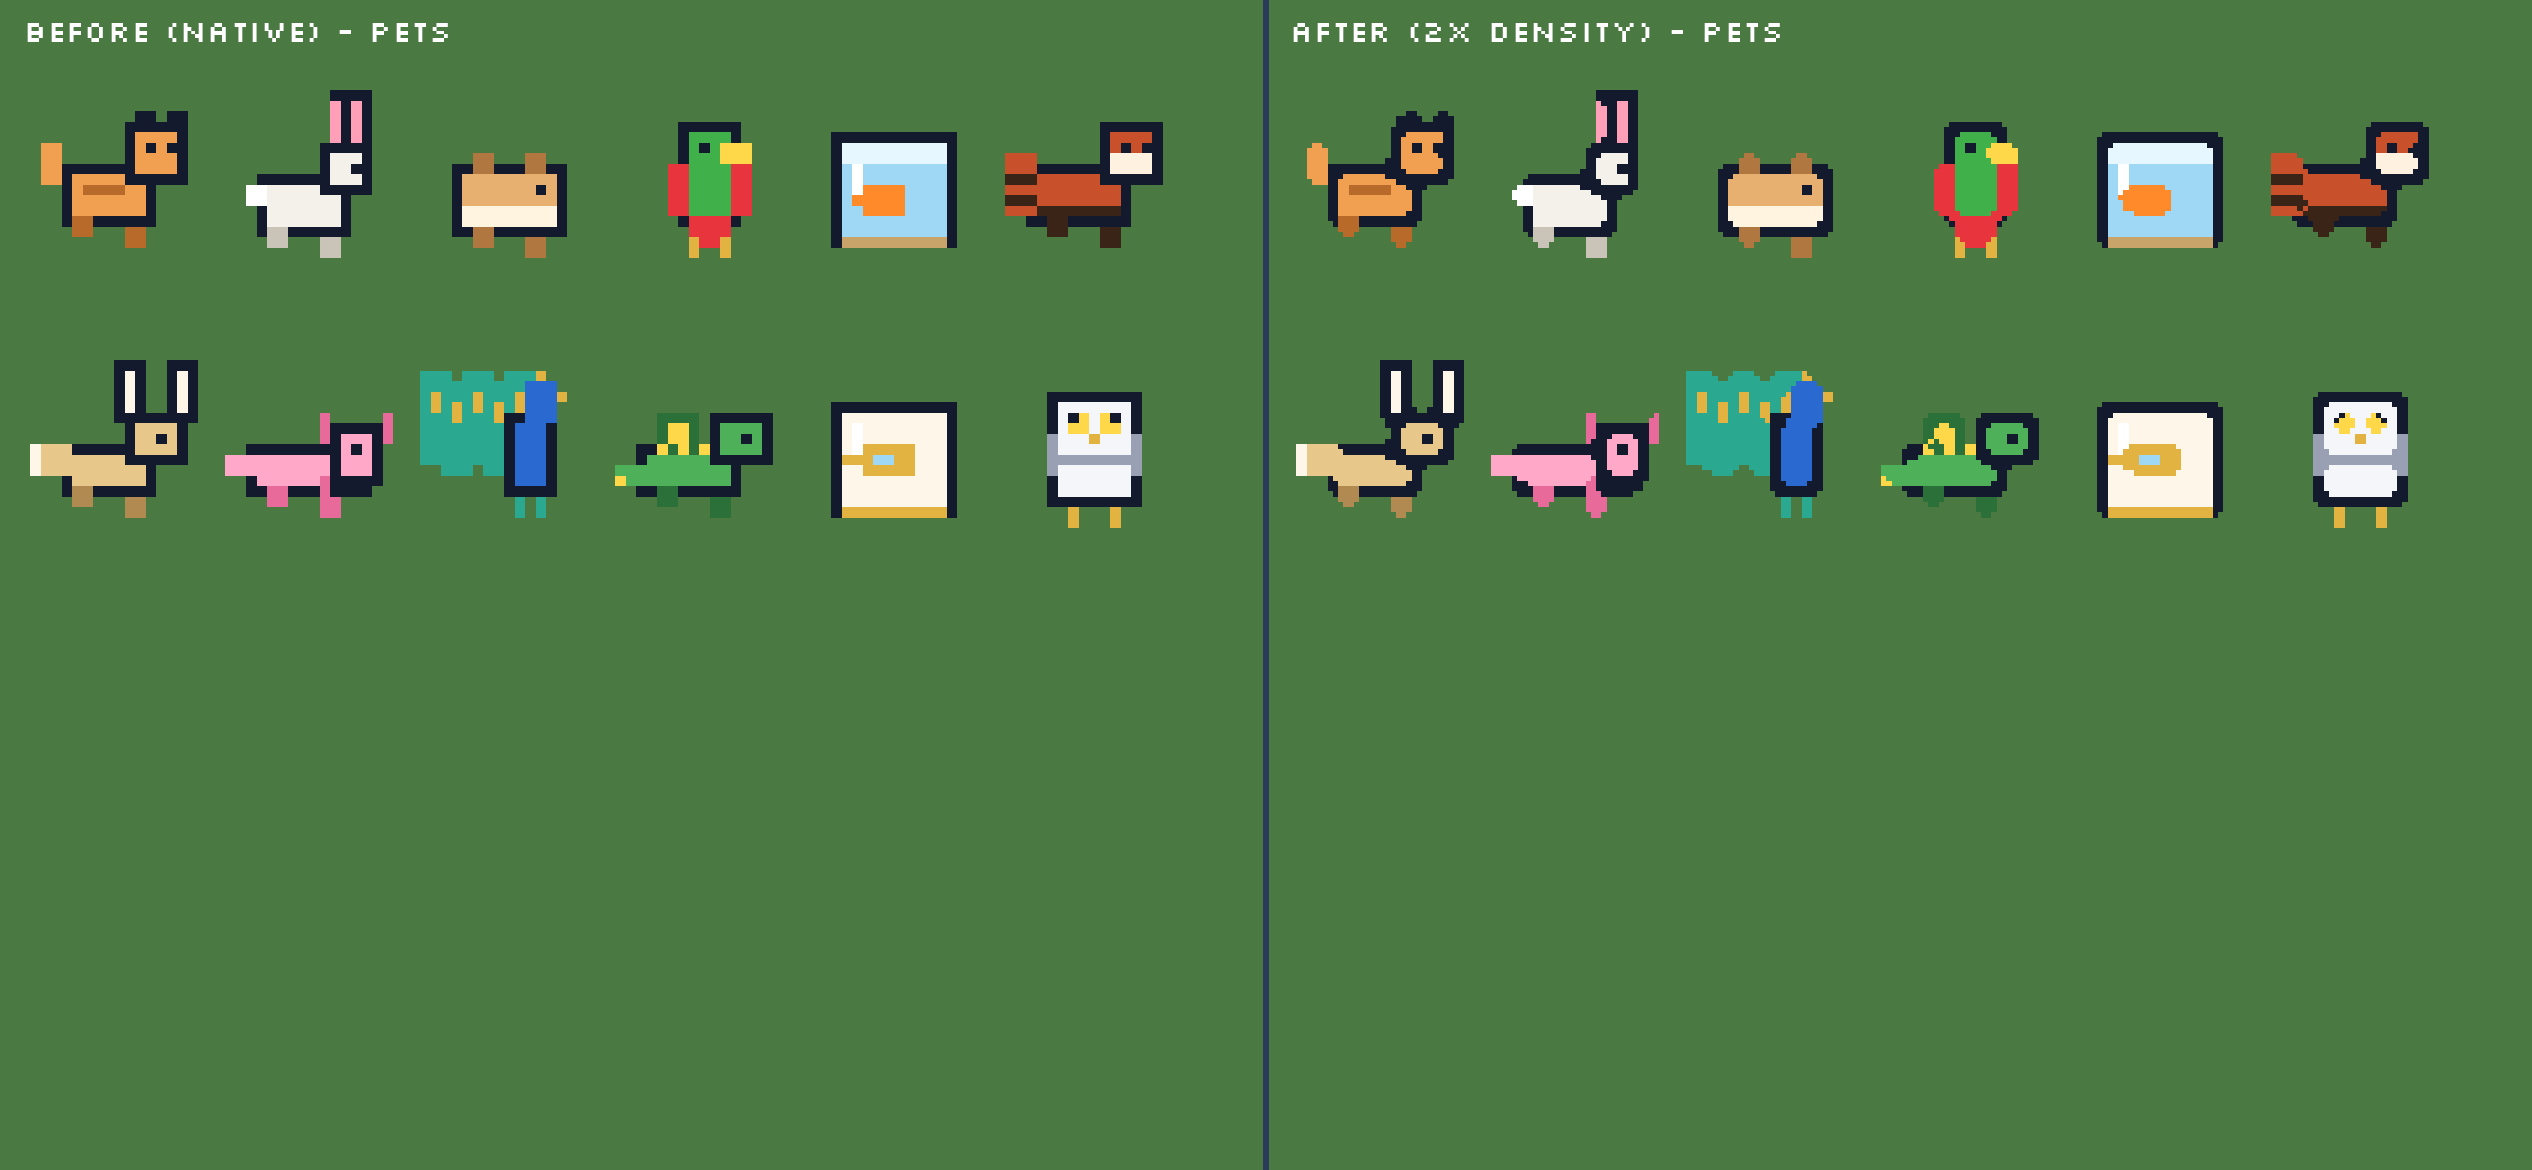
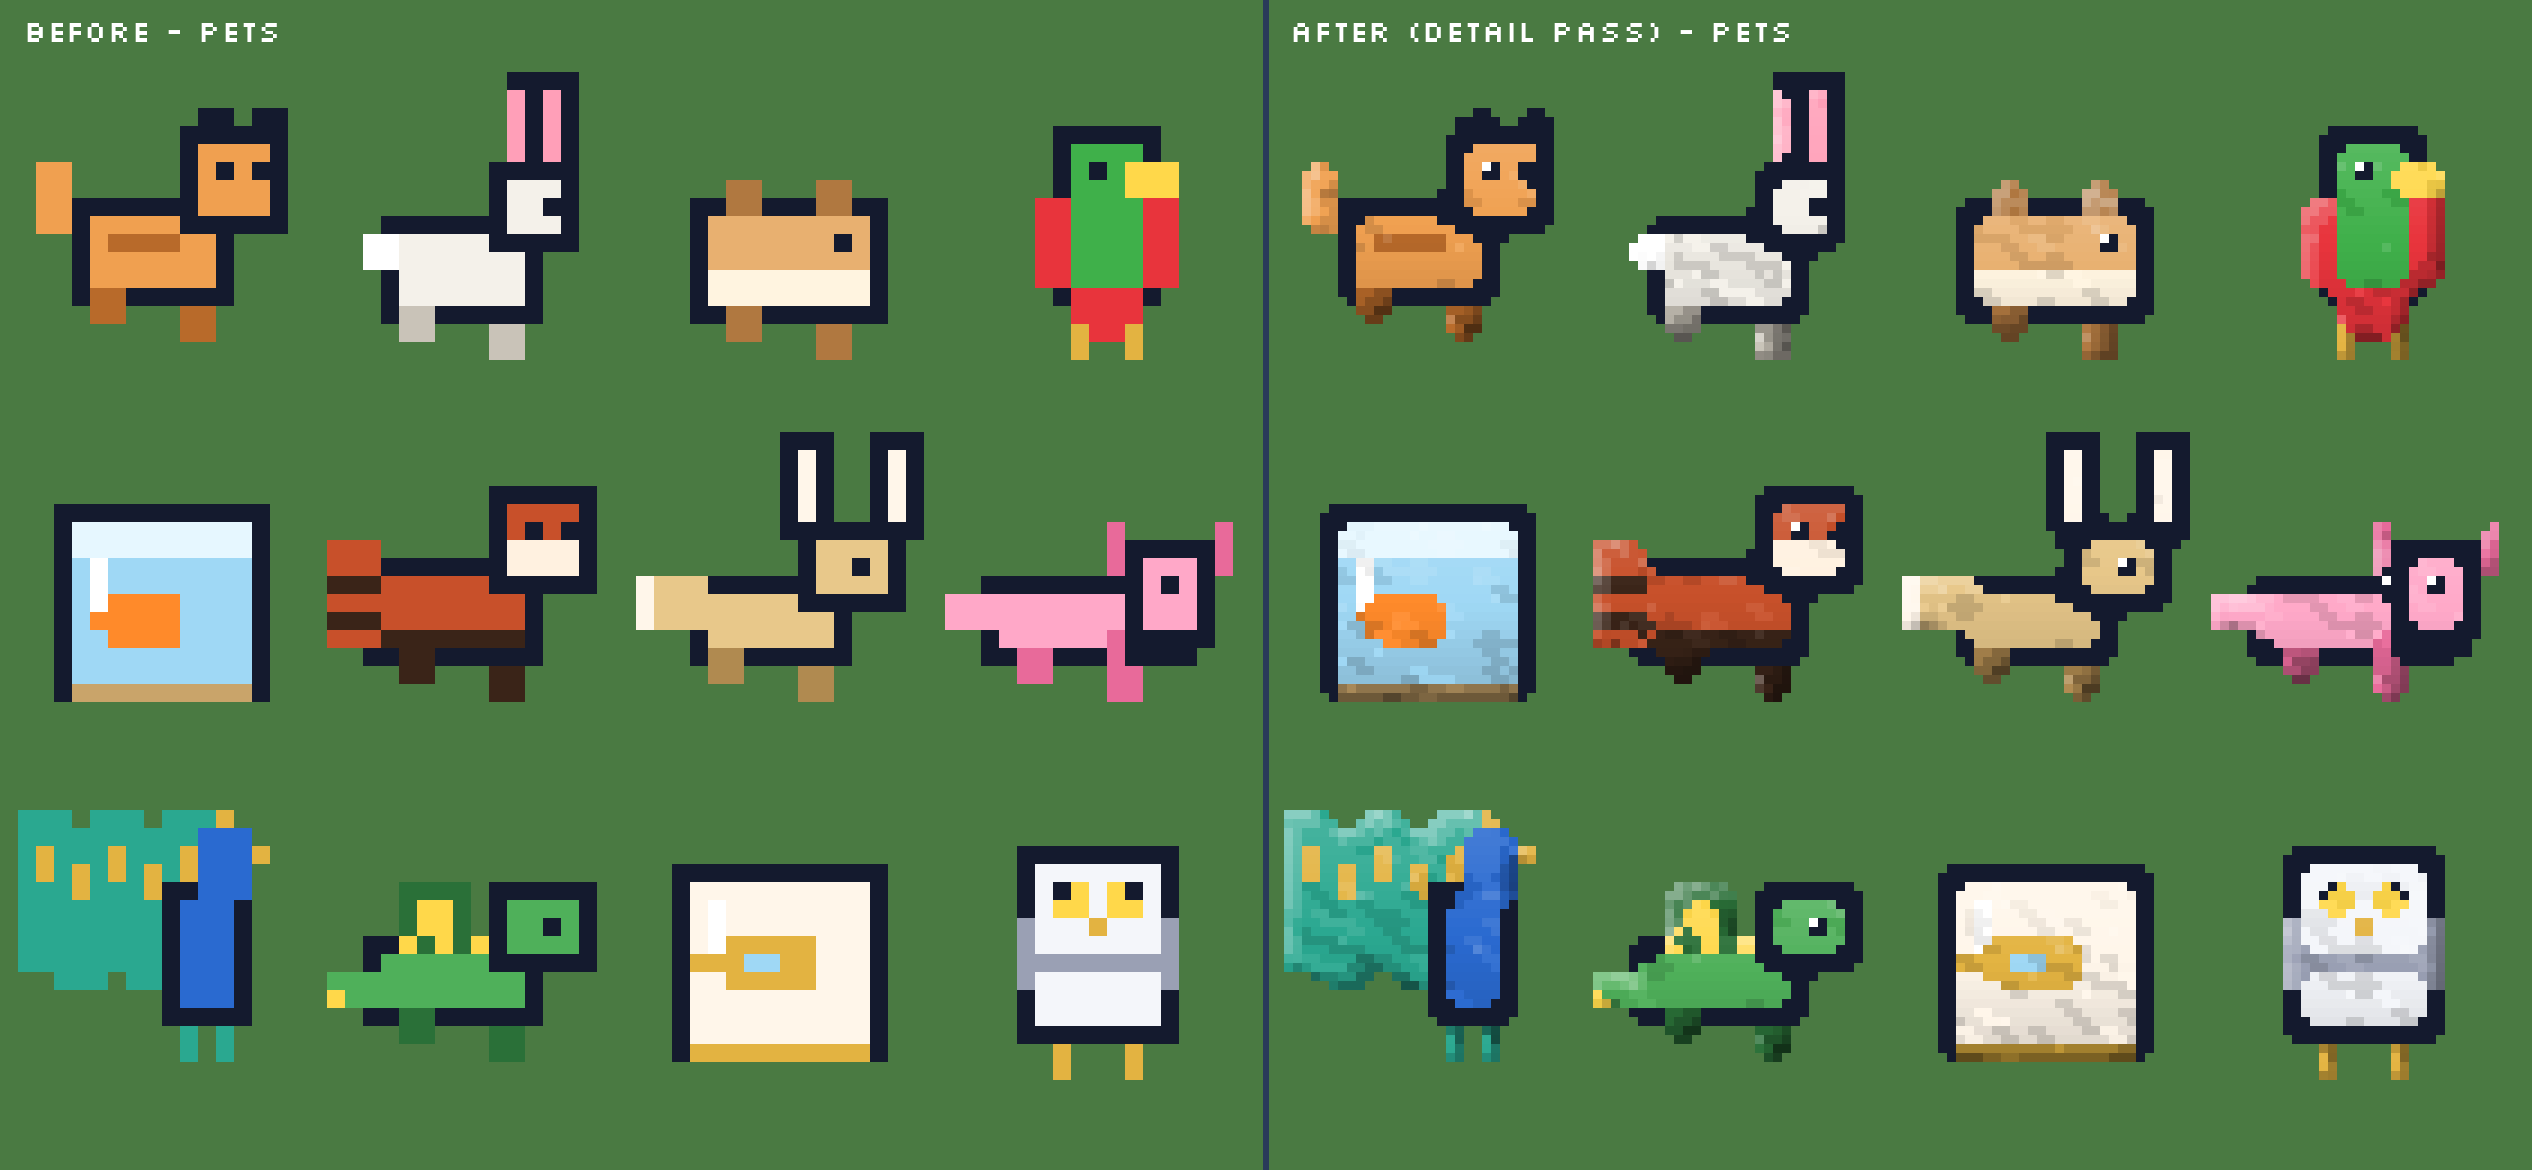
Detail pass (2/4): 11 pets - fur/feather texture, form shading + rim light, eye glints

diff --git a/src/pets.js b/src/pets.js
@@ -1,3 +1,4 @@
+import { shadeSprite } from './detail.js';
 import { hires } from './hires.js';
 // Pets: bought like clothes, follow the player, idle + walk animations, can be named and petted.
 // Common pets cost Bones; exotic pets cost $KIBBLE through the shared wallet adapter (treasury + pool split).
@@ -48,5 +49,5 @@ export function petSprite(species, frame = 0, pal = null) { const k = species + 
     case 'koi': P(2, 4, 12, 11, I); P(3, 5, 10, 9, c3(b)); P(5 + f * 2, 8, 5, 3, a); P(6 + f * 2, 9, 2, 1, e); P(3 + f * 2, 9, 2, 1, a); P(4, 6, 1, 3, '#ffffff'); P(3, 14, 10, 1, '#e3b341'); break;
     case 'snowowl': P(4, 3, 9, 11, I); P(5, 4, 7, 9, a); P(6, 5, 2, 2, e); P(9, 5, 2, 2, e); P(6, 5, 1, 1, I); P(10, 5, 1, 1, I); P(8, 7, 1, 1, '#e3b341'); P(5, 9, 7, 1, b); P(4 - f, 7, 1, 4, b); P(12 + f, 7, 1, 4, b); P(6, 14, 1, 2, '#e3b341'); P(10, 14, 1, 2, '#e3b341'); break;
   }
-  cv = hires(cv); cache.set(k, cv); return cv; } // 32x32: 2x pixel density (same palette)
+  cv = hires(cv); if (!globalThis.__noDetail) shadeSprite(cv, { r: 2, light: 0.3, dark: 0.32, fur: 0.12, glint: 'small', grad: 0.14, seed: species.length }); cache.set(k, cv); return cv; } // 32x32: 2x pixel density (same palette)
 const c3 = (x) => x;

diff --git a/src/detail.js b/src/detail.js
@@ -23,6 +23,10 @@ export function shadeSprite(cv, { r = 2, light = 0.28, dark = 0.3, fur = 0, glin
     if (L(x, y) > skipInk || A(x, y) < 128) continue; if (![[-6, 0], [6, 0], [0, -6], [0, 6], [-2, 0], [2, 0], [0, -2], [0, 2]].every(([a, b]) => A(x + a, y + b) > 128)) continue;
     if (L(x - 1, y) <= skipInk && L(x, y - 1) <= skipInk && L(x + 1, y) <= skipInk && L(x, y + 1) <= skipInk && L(x - 1, y - 1) > skipInk) { const i = (y * w + x) * 4; d[i] = d[i + 1] = d[i + 2] = 255; }
   }
+  if (glint === 'small') for (let y = 1; y < h - 2; y++) for (let x = 1; x < w - 2; x++) { // 2x2-ish pet eyes: light the top-left pixel
+    if (A(x, y) < 128 || L(x, y) > skipInk) continue; const lit = (a, b) => A(a, b) > 128 && L(a, b) > skipInk + 30;
+    if (lit(x - 1, y) && lit(x, y - 1) && !lit(x + 1, y) && !lit(x, y + 1) && A(x + 1, y) > 128 && A(x, y + 1) > 128 && lit(x + 2, y) && lit(x, y + 2)) { const i = (y * w + x) * 4; d[i] = d[i + 1] = d[i + 2] = 255; }
+  }
   c.putImageData(im, 0, 0); return cv;
 }
 // Material patterns per outfit item (drawn source-atop on that layer only). b = layer bbox [x, y, w, h], u = px unit.
